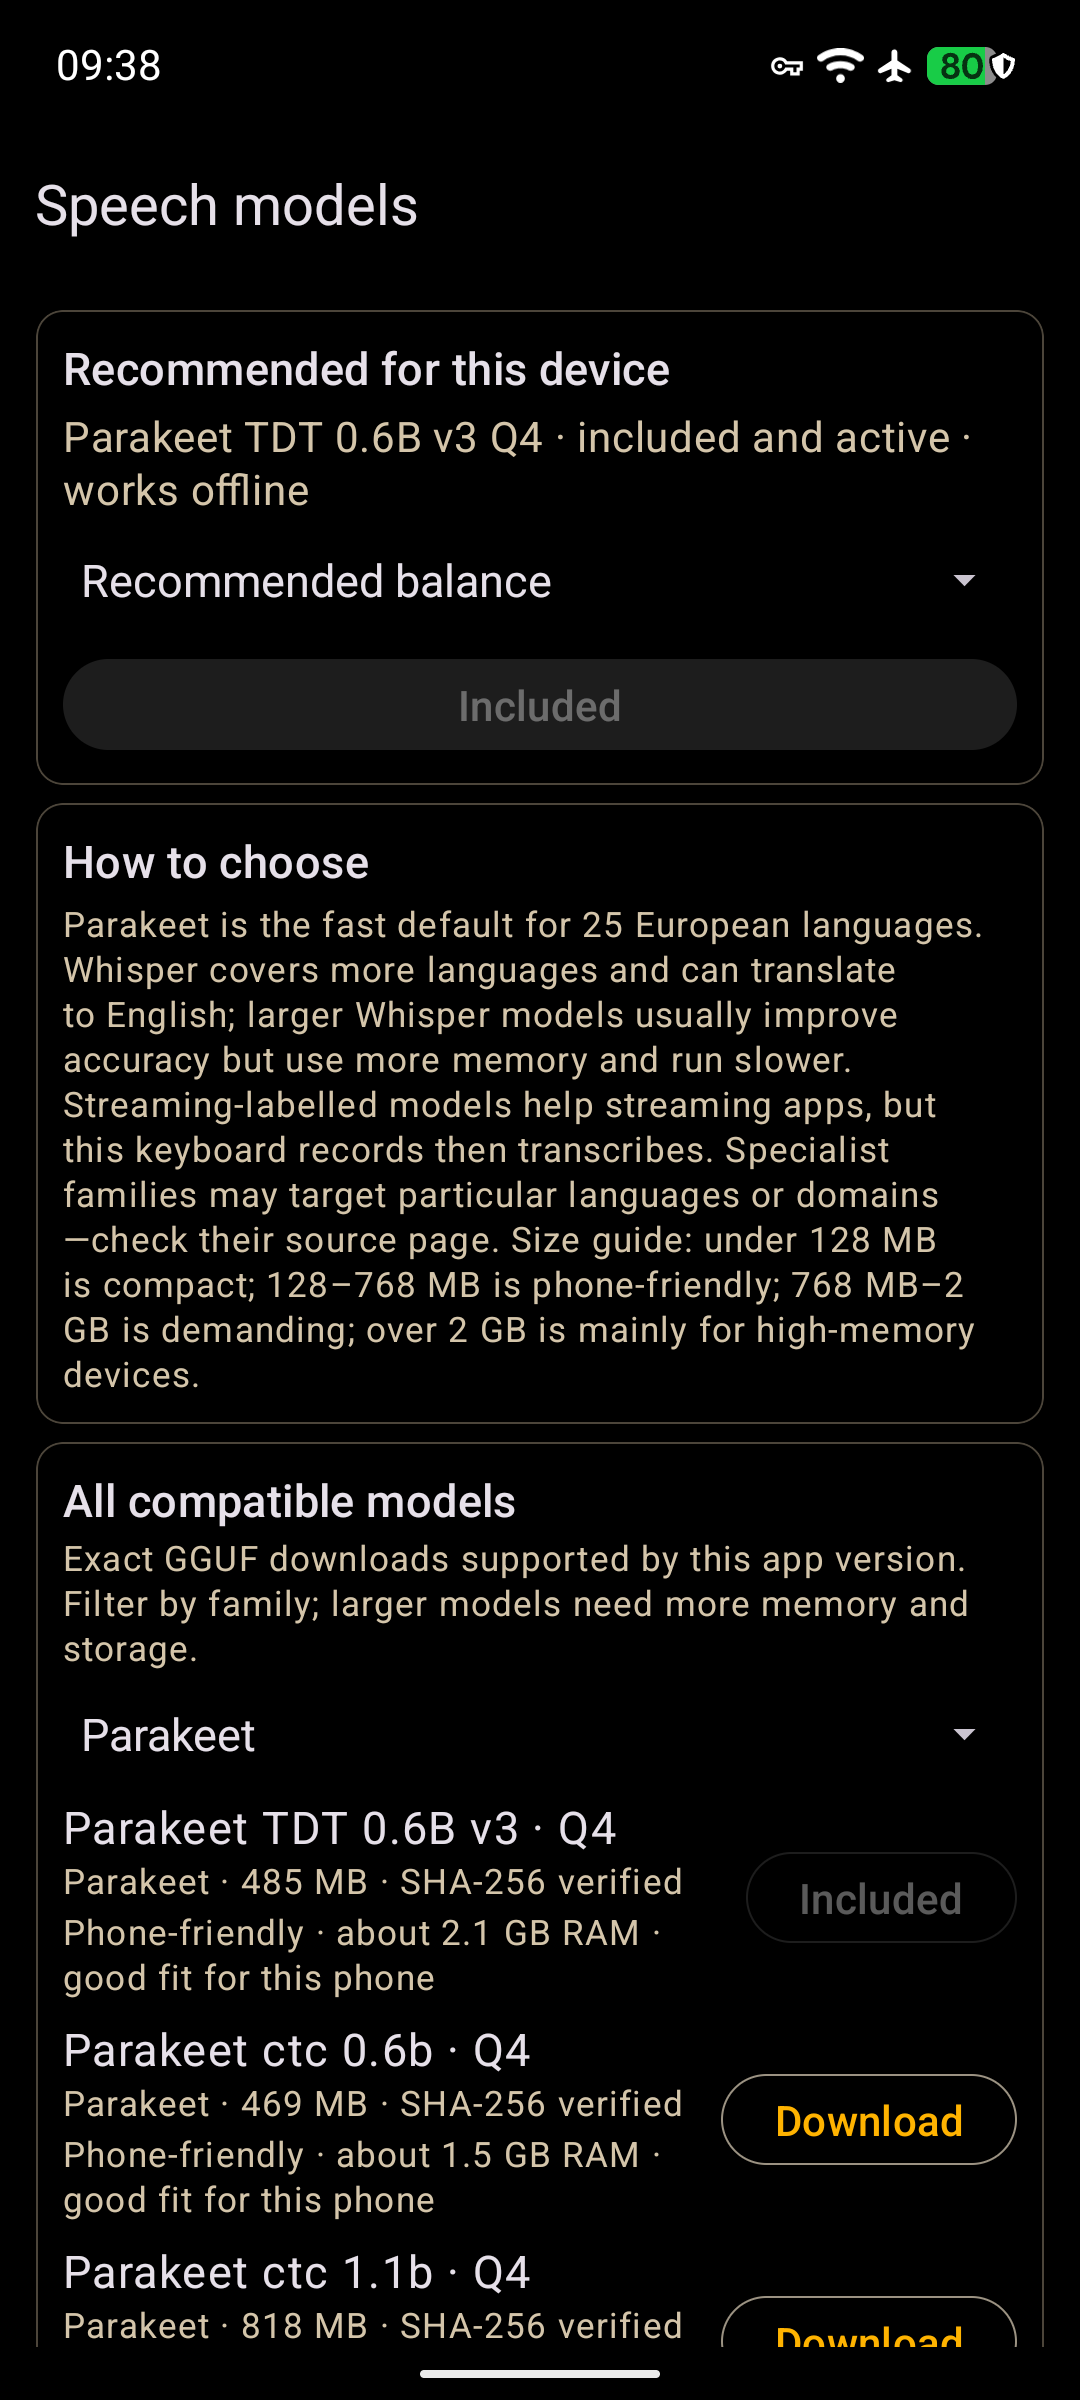
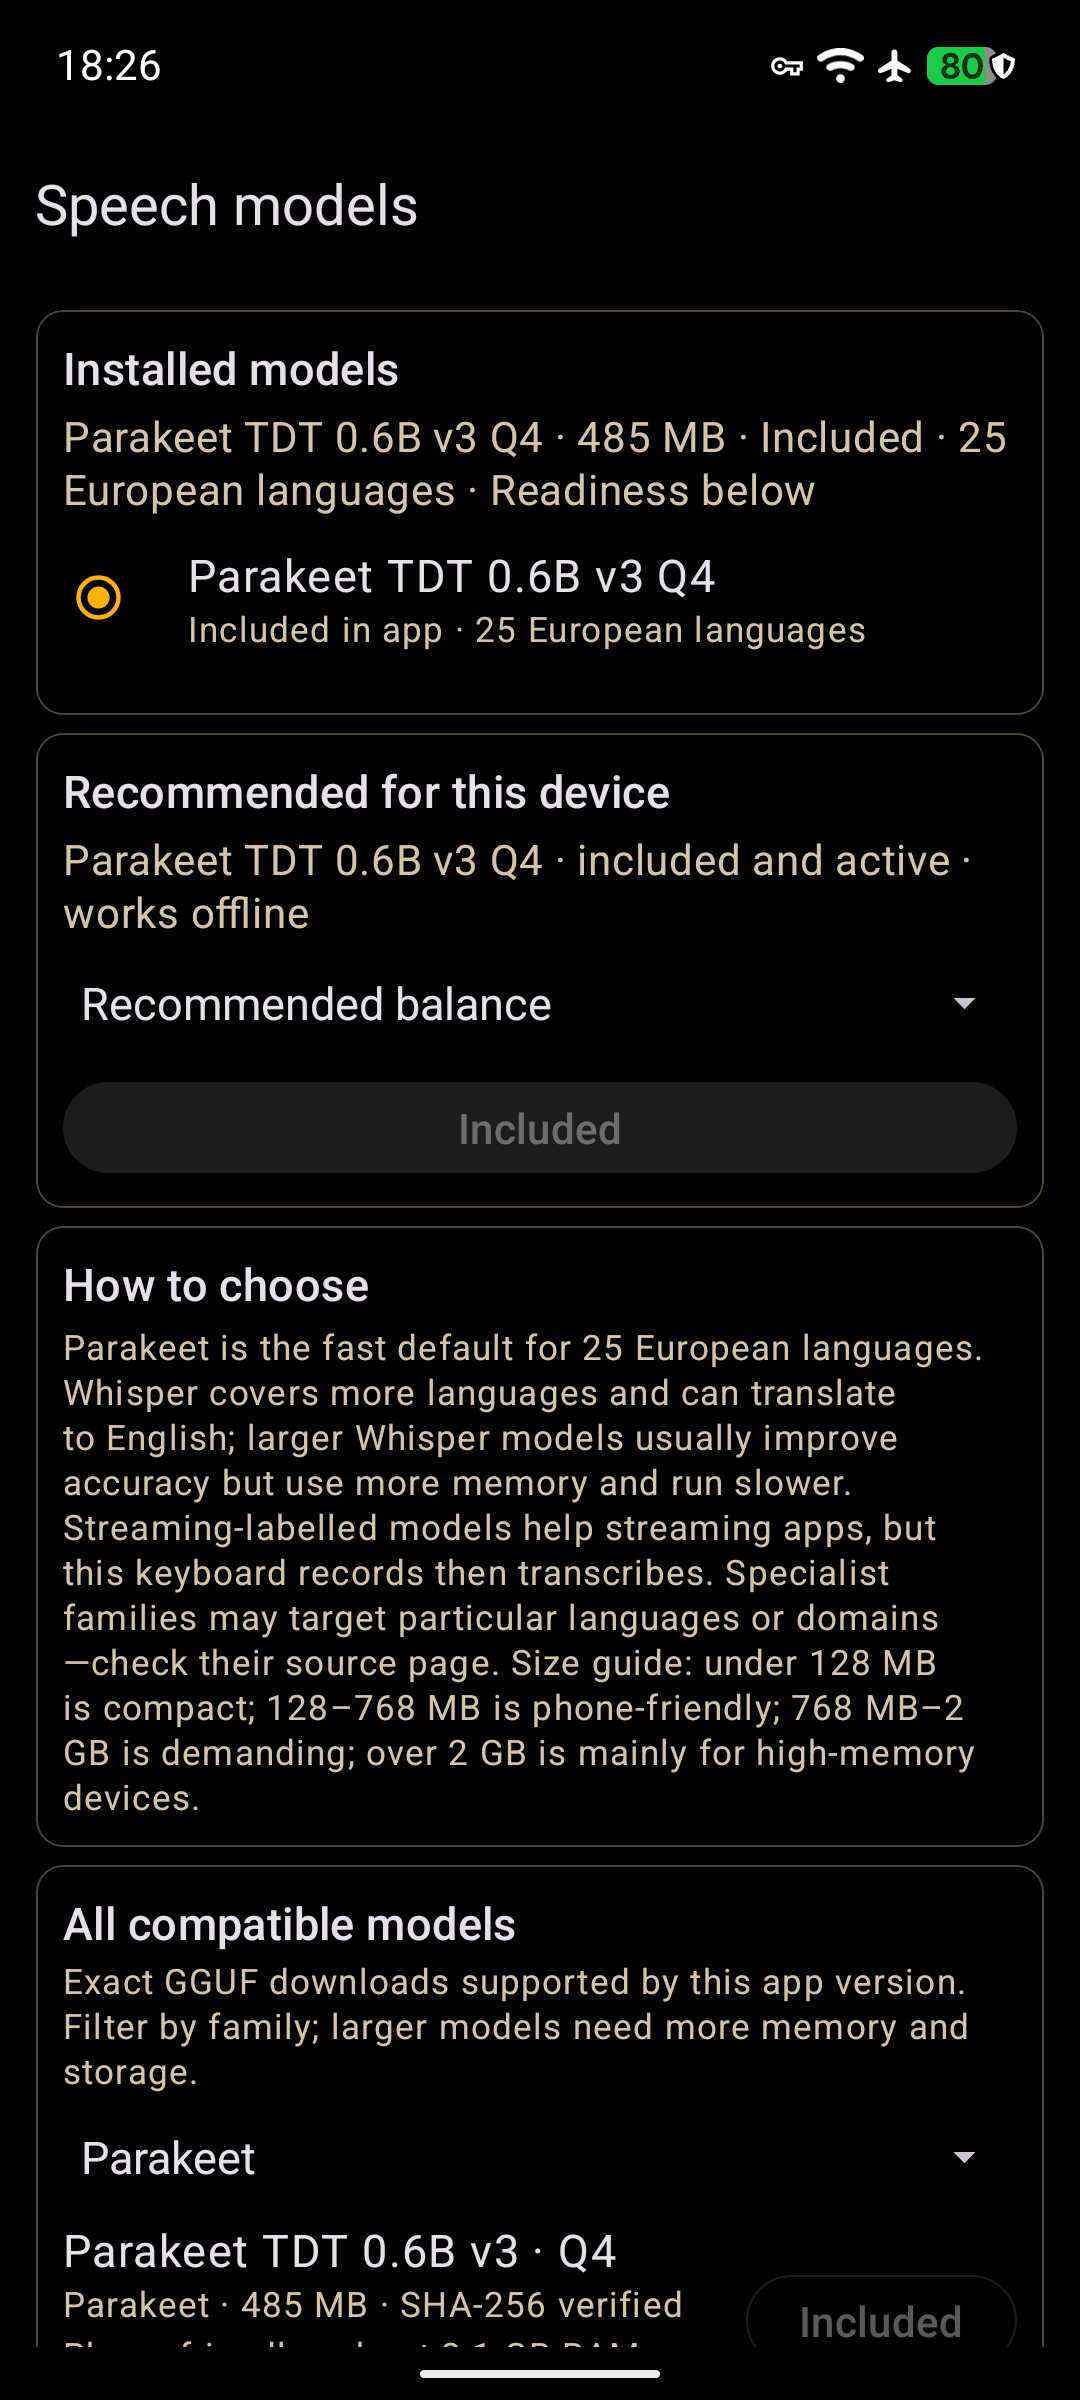
Release Offline Speech to Text 0.3.1
Put installed-model selection first, hide idle model status controls, refresh the model guidance and screenshots, and publish the verified 0.3.1 metadata.

diff --git a/app/src/main/java/dev/notune/transcribe/ModelsActivity.java b/app/src/main/java/dev/notune/transcribe/ModelsActivity.java
@@ -191,7 +191,7 @@ public class ModelsActivity extends AppCompatActivity {
         retryButton.setOnClickListener(v -> {
             if (!manualReloadInFlight.compareAndSet(false, true)) return;
             retryButton.setEnabled(false);
-            statusText.setText(getString(R.string.models_loading));
+            showModelStatus(getString(R.string.models_loading));
             // JNI captures the activity reference and performs model reset/load
             // on its own Rust worker thread; this call itself returns promptly.
             reloadModelNative(this);
@@ -206,7 +206,7 @@ public class ModelsActivity extends AppCompatActivity {
         translateSwitch.setOnCheckedChangeListener((btn, checked) -> {
             writeConfig("model_translate", checked ? "1" : "");
             updateRecommendation();
-            statusText.setText(getString(R.string.models_loading));
+            showModelStatus(getString(R.string.models_loading));
             reloadModelNative(this);
         });
         refreshList();
@@ -428,7 +428,7 @@ public class ModelsActivity extends AppCompatActivity {
                         && !activeModel.supportsLanguage(tag)
                         ? R.string.models_language_requires_model
                         : R.string.models_language_saved));
-                statusText.setText(getString(R.string.models_loading));
+                showModelStatus(getString(R.string.models_loading));
                 reloadModelNative(ModelsActivity.this);
             }
 
@@ -472,7 +472,7 @@ public class ModelsActivity extends AppCompatActivity {
                 String value = values.get(position);
                 if (value.equals(readConfig("model_threads"))) return;
                 writeConfig("model_threads", value);
-                statusText.setText(getString(R.string.models_loading));
+                showModelStatus(getString(R.string.models_loading));
                 reloadModelNative(ModelsActivity.this);
             }
 
@@ -702,7 +702,7 @@ public class ModelsActivity extends AppCompatActivity {
                 snackbar(getString(R.string.models_download_done));
                 refreshList();
                 updateRecommendation();
-                statusText.setText(R.string.models_loading);
+                showModelStatus(getString(R.string.models_loading));
                 reloadModelNative(ModelsActivity.this);
                 showRemoveNetworkAccessDialog();
             } else {
@@ -896,7 +896,7 @@ public class ModelsActivity extends AppCompatActivity {
         }
         refreshList();
         updateRecommendation();
-        statusText.setText(getString(R.string.models_loading));
+        showModelStatus(getString(R.string.models_loading));
         reloadModelNative(this);
     }
 
@@ -1055,7 +1055,7 @@ public class ModelsActivity extends AppCompatActivity {
                 if (success) {
                     snackbar(getString(R.string.models_import_done, completedName));
                     refreshList();
-                    statusText.setText(getString(R.string.models_loading));
+                    showModelStatus(getString(R.string.models_loading));
                     reloadModelNative(this);
                 } else if (defaultMismatch) {
                     snackbar(getString(R.string.models_import_default_mismatch));
@@ -1105,11 +1105,19 @@ public class ModelsActivity extends AppCompatActivity {
     // Called from Rust with load progress ("Loading model...", "Ready", "Error: ...").
     public void onStatusUpdate(String status) {
         runOnUiThread(() -> {
-            statusText.setText(status);
+            showModelStatus(status);
             if (!status.startsWith("Loading") && manualReloadInFlight.getAndSet(false)) {
                 retryButton.setEnabled(true);
             }
         });
+    }
+
+    private void showModelStatus(String status) {
+        boolean ready = "Ready".equals(status);
+        boolean failed = status.startsWith("Error:");
+        statusText.setText(status);
+        statusText.setVisibility(ready ? View.GONE : View.VISIBLE);
+        retryButton.setVisibility(failed ? View.VISIBLE : View.GONE);
     }
 
     private native void reloadModelNative(ModelsActivity activity);

diff --git a/tests/test_release_configuration.py b/tests/test_release_configuration.py
@@ -19,8 +19,8 @@ class ReleaseConfigurationTest(unittest.TestCase):
     def test_release_identity_and_default_model_contract_are_immutable(self):
         gradle = (ROOT / "app/build.gradle.kts").read_text()
         self.assertIn('applicationId = "app.offlinespeechtotext"', gradle)
-        self.assertIn("versionCode = 27", gradle)
-        self.assertIn('versionName = "0.3.0"', gradle)
+        self.assertIn("versionCode = 28", gradle)
+        self.assertIn('versionName = "0.3.1"', gradle)
         self.assertIn('providers.gradleProperty("includeBundledModel")', gradle)
         self.assertIn('.orNull?.toBooleanStrictOrNull() ?: true', gradle)
         self.assertIn('ModelFile("parakeet-tdt-0.6b-v3-Q4_K_M.gguf", 485425504L,', gradle)
@@ -601,6 +601,28 @@ class ReleaseConfigurationTest(unittest.TestCase):
         source = (ROOT / "app/src/main/java/dev/notune/transcribe/ModelsActivity.java").read_text()
         self.assertIn('@+id/text_active_model_summary', layout)
         self.assertIn('@+id/btn_model_retry', layout)
+        base_strings = ET.parse(ROOT / "app/src/main/res/values/strings.xml").getroot()
+        copy = {item.attrib["name"]: "".join(item.itertext())
+                for item in base_strings.findall("string")}
+        self.assertEqual("Installed models", copy["models_active_section"])
+        self.assertEqual("Manual options", copy["models_manual_section"])
+        tree = ET.parse(ROOT / "app/src/main/res/layout/activity_models.xml")
+        android = "{http://schemas.android.com/apk/res/android}"
+        by_id = {view.attrib.get(android + "id"): view for view in tree.iter()}
+        card_order = [view.attrib.get(android + "id") for view in tree.iter()
+                      if view.tag.endswith("MaterialCardView")]
+        expected_cards = [
+            "@+id/card_installed_models",
+            "@+id/card_recommendation",
+            "@+id/card_model_guide",
+            "@+id/card_download_catalog",
+            "@+id/card_manual_models",
+        ]
+        self.assertEqual(expected_cards, card_order[:len(expected_cards)])
+        self.assertEqual("gone", by_id["@+id/txt_model_status"].attrib[android + "visibility"])
+        self.assertEqual("gone", by_id["@+id/btn_model_retry"].attrib[android + "visibility"])
+        self.assertIn("private void showModelStatus", source)
+        self.assertIn('retryButton.setVisibility(failed ? View.VISIBLE : View.GONE)', source)
         self.assertIn("models_provenance_imported", source)
         self.assertIn("DefaultModelContract.BYTE_SIZE", source)
         self.assertIn("reloadModelNative(this)", source)

diff --git a/src/subtitle.rs b/src/subtitle.rs
@@ -226,7 +226,11 @@ pub unsafe extern "system" fn Java_dev_notune_transcribe_LiveSubtitleService_ini
                 // job costs; also reflects thermal throttling over time.
                 let sample = (elapsed / audio_secs * 1000.0) as u32;
                 let old = rtf_milli.load(Ordering::SeqCst);
-                let ema = if old == 0 { sample } else { (old * 7 + sample * 3) / 10 };
+                let ema = if old == 0 {
+                    sample
+                } else {
+                    (old * 7 + sample * 3) / 10
+                };
                 rtf_milli.store(ema, Ordering::SeqCst);
 
                 if let Ok(r) = res {

diff --git a/src/assets.rs b/src/assets.rs
@@ -99,7 +99,10 @@ pub fn invalidate_builtin_model(model_path: &Path) {
 fn find_gguf(dir: &Path) -> anyhow::Result<PathBuf> {
     for entry in std::fs::read_dir(dir)? {
         let path = entry?.path();
-        if path.extension().is_some_and(|ext| ext.eq_ignore_ascii_case("gguf")) {
+        if path
+            .extension()
+            .is_some_and(|ext| ext.eq_ignore_ascii_case("gguf"))
+        {
             return Ok(path);
         }
     }

diff --git a/src/main_activity.rs b/src/main_activity.rs
@@ -56,7 +56,11 @@ pub unsafe extern "system" fn Java_dev_notune_transcribe_MainActivity_benchmarkN
 ) {
     let len = length as usize;
     let mut buffer = vec![0.0f32; len];
-    if len == 0 || env.get_float_array_region(&samples, 0, &mut buffer).is_err() {
+    if len == 0
+        || env
+            .get_float_array_region(&samples, 0, &mut buffer)
+            .is_err()
+    {
         return;
     }
 

diff --git a/src/transcribe_file.rs b/src/transcribe_file.rs
@@ -5,7 +5,6 @@ use jni::sys::jint;
 use jni::JNIEnv;
 use once_cell::sync::Lazy;
 
-
 use crate::engine;
 
 struct TranscribeFileState {

diff --git a/README.md b/README.md
@@ -27,7 +27,7 @@ Private, on-device speech recognition for Android apps, keyboards, shared audio,
 
 1. Grant microphone access, then use **Try voice input**. The included default model works entirely offline from first launch.
 2. Tap a microphone in an app or keyboard that launches Android voice recognition. If Android asks, choose **Offline Speech to Text**.
-3. Optional: open **Manage speech models**, choose what matters, and use the recommendation. Download progress stays in the card you tapped. Every Download button verifies exact size and SHA-256 before installing and selecting a model. **Browse model websites** and manual GGUF import remain separate fallbacks.
+3. Optional: open **Manage speech models**. Installed-model selection is first, followed by the device recommendation and complete download catalog. Download progress stays in the card you tapped. Every Download button verifies exact size and SHA-256 before installing and selecting a model. **Browse model websites** and manual GGUF import remain separate fallbacks below the download choices.
 
 Optional paths:
 
